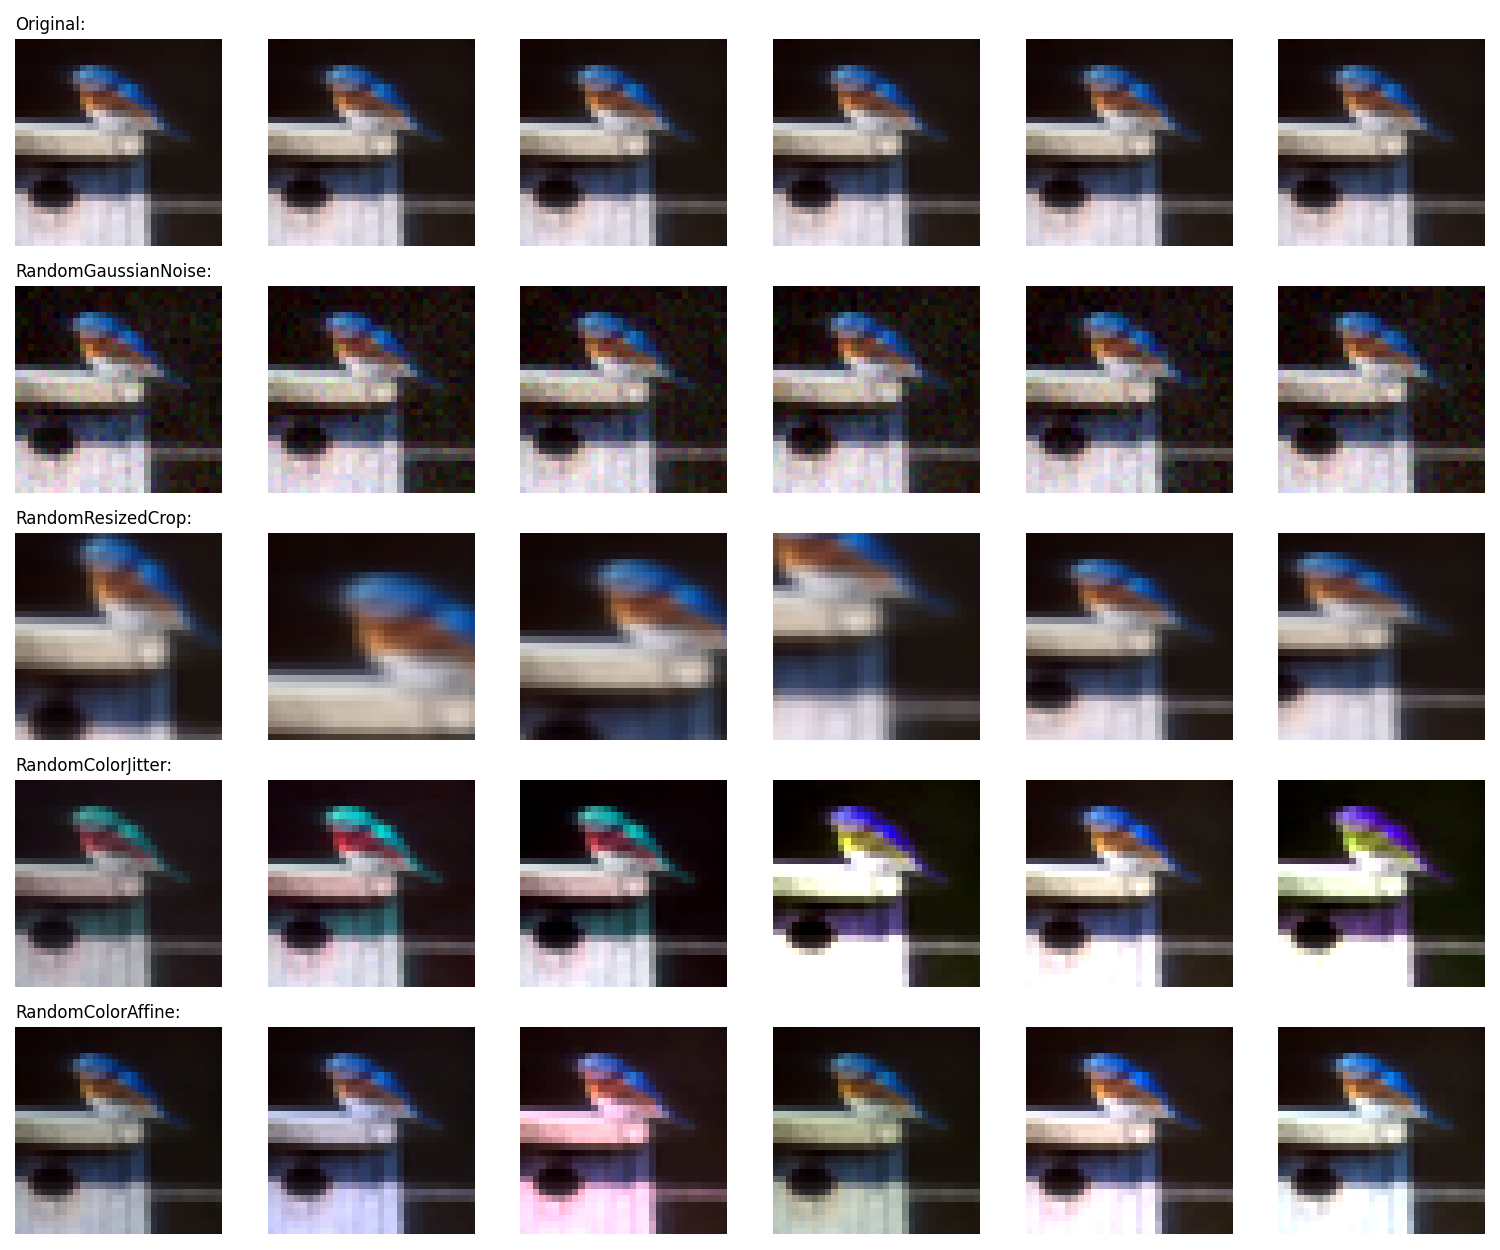
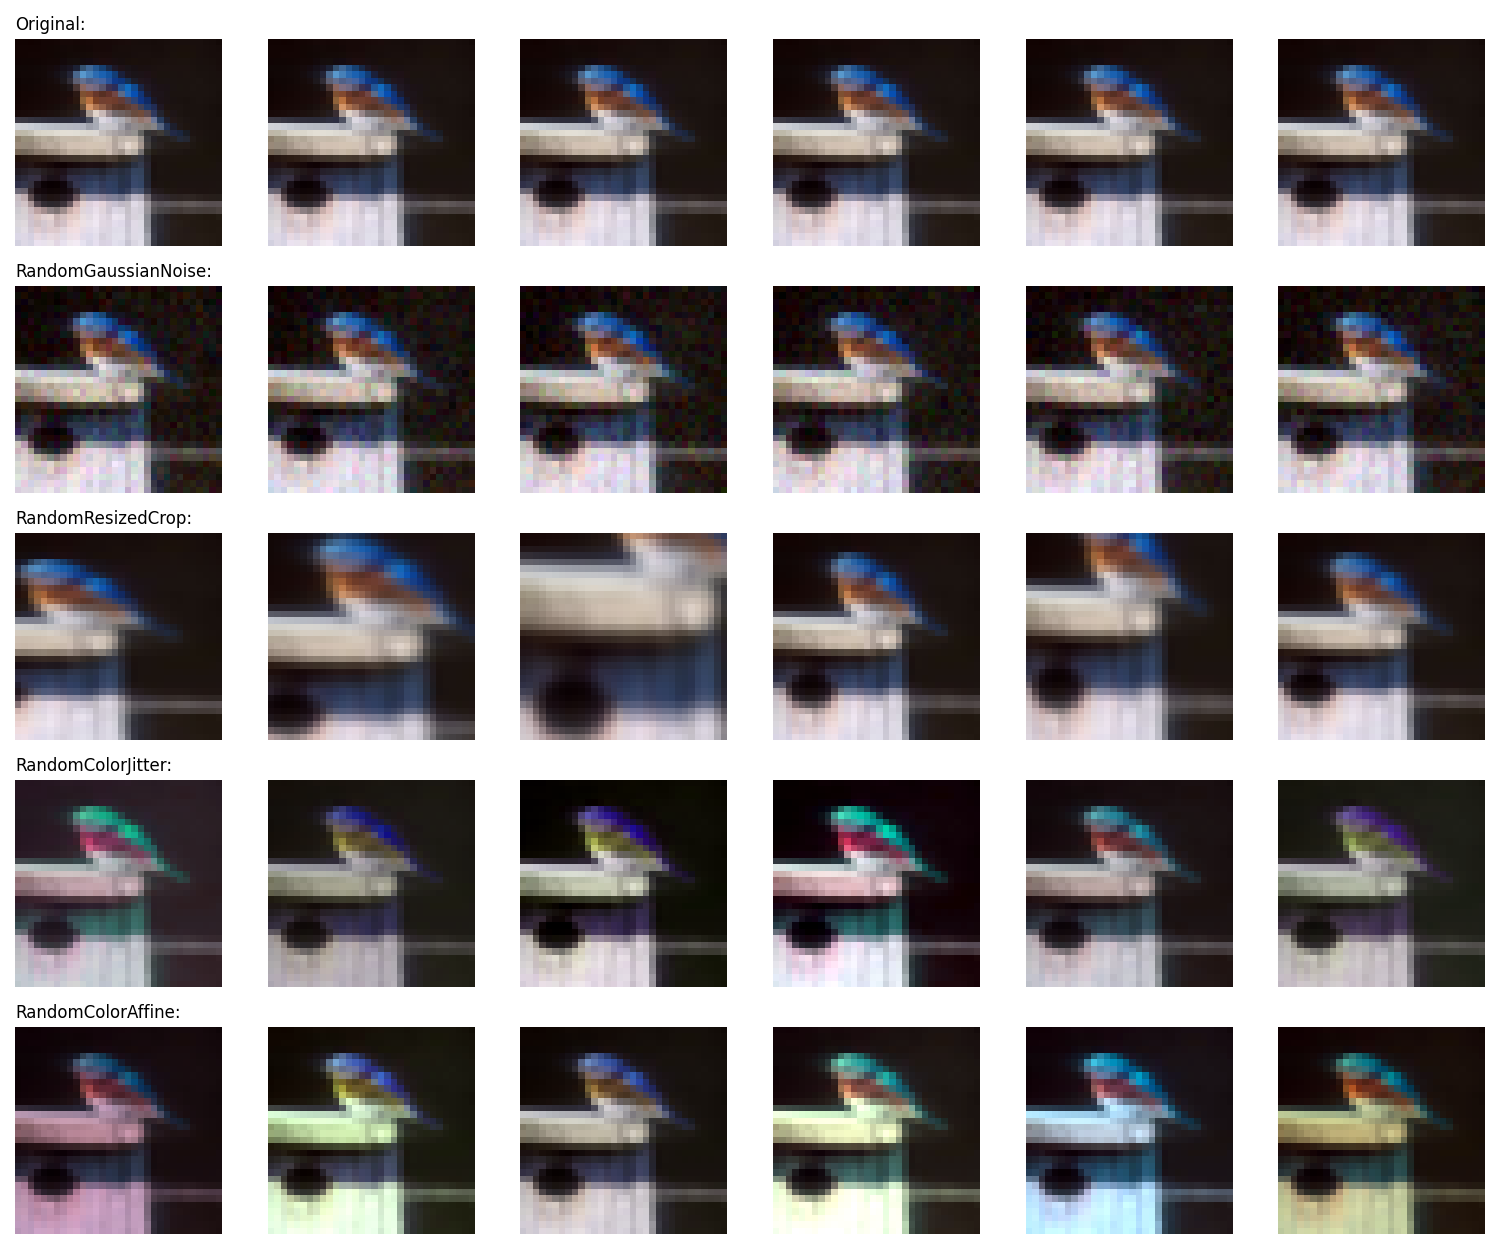
improved RandomColorAffine, updated images

diff --git a/augmentations.py b/augmentations.py
@@ -1,4 +1,5 @@
 import random
+import math
 import tensorflow as tf
 
 from tensorflow.keras import layers
@@ -157,28 +158,70 @@ class RandomColorJitter(layers.Layer):
 
 # distorts the color distibutions of images
 class RandomColorAffine(layers.Layer):
-    def __init__(self, brightness=0.3, jitter=0.1, **kwargs):
+    def __init__(self, brightness=0.2, saturation=0.2, hue=0.1, jitter=0.1, **kwargs):
         super().__init__(**kwargs)
 
         self.brightness = brightness
+        self.saturation = saturation
+        self.hue = hue
         self.jitter = jitter
 
     def call(self, images, training=True):
         if training:
             batch_size = tf.shape(images)[0]
 
-            # same for all colors
-            brightness_scales = 1 + tf.random.uniform(
-                (batch_size, 1, 1, 1), minval=-self.brightness, maxval=self.brightness
-            )
-            # different for all colors
-            jitter_matrices = tf.random.uniform(
+            # jitter: mixes colors across channels by applying a random affine transformation in color space
+            color_mixers = tf.eye(3, batch_shape=[batch_size, 1]) + tf.random.uniform(
                 (batch_size, 1, 3, 3), minval=-self.jitter, maxval=self.jitter
             )
 
-            color_transforms = (
-                tf.eye(3, batch_shape=[batch_size, 1]) * brightness_scales
-                + jitter_matrices
+            # hue: applies a random rotation transformation around the main diagonal in color space
+            rotation_angles = (
+                tf.random.uniform(
+                    (batch_size, 1, 1, 1), minval=-self.hue, maxval=self.hue
+                )
+                * math.pi
             )
-            images = tf.clip_by_value(tf.matmul(images, color_transforms), 0, 1)
+            color_rotators = (
+                tf.cos(rotation_angles) * tf.eye(3, batch_shape=[batch_size, 1])
+                + tf.linalg.cross(
+                    tf.sin(rotation_angles)
+                    / tf.sqrt(3.0)
+                    * tf.ones((batch_size, 1, 3, 3)),
+                    tf.eye(3, batch_shape=[batch_size, 1]),
+                )
+                + (1 - tf.cos(rotation_angles)) / 3
+            )
+
+            # saturation: applies a random stretching transformation along the main diagonal in color space
+            saturation_factors = tf.exp(
+                tf.random.uniform(
+                    (batch_size, 1, 1, 1),
+                    minval=-self.saturation,
+                    maxval=self.saturation,
+                )
+            )
+            color_stretchers = (
+                saturation_factors * tf.eye(3, batch_shape=[batch_size, 1])
+                + (1 - saturation_factors) / 3
+            )
+
+            # brightness: applies a random scaling transformation in color space
+            color_scalers = tf.exp(
+                tf.random.uniform(
+                    (batch_size, 1, 1, 1),
+                    minval=-self.brightness,
+                    maxval=self.brightness,
+                )
+            )
+
+            images = tf.clip_by_value(
+                images
+                @ color_mixers
+                @ color_rotators
+                @ color_stretchers
+                * color_scalers,
+                0,
+                1,
+            )
         return images

diff --git a/README.md b/README.md
@@ -8,8 +8,8 @@ in Keras:
   ratio and zoom range to its original resolution
 - **RandomColorJitter**: distorts the color distibutions of images in
   torchvision-style
-- **RandomColorAffine**: distorts the color distibutions of images by applying a
-  random affine transformation in color space
+- **RandomColorAffine**: distorts the color distibutions of images by applying
+  random affine transformations in color space
 
 Using custom Keras preprocessing layers for data augmentation has the following
 two advantages:
@@ -18,6 +18,9 @@ two advantages:
   resources (such as a Colab Notebook, or a personal machine)
 - deployment is easier as the data preprocessing pipeline is encapsulated in the
   model, and does not have to be reimplemented when deploying it
+
+The default augmentation parameters correspond to mild, conservative image
+augmentations.
 
 ## Usage: minimal example
 ``` python
@@ -67,6 +70,8 @@ model.fit(train_dataset, epochs=num_epochs, validation_data=test_dataset)
 ```
 
 ## Visualizations
+![augmented car](./assets/augmentations_5.png)
+![augmented peacock](./assets/augmentations_6.png)
 ![augmented bird](./assets/augmentations_13.png)
 ![augmented plane](./assets/augmentations_30.png)
 ![augmented deer](./assets/augmentations_66.png)
